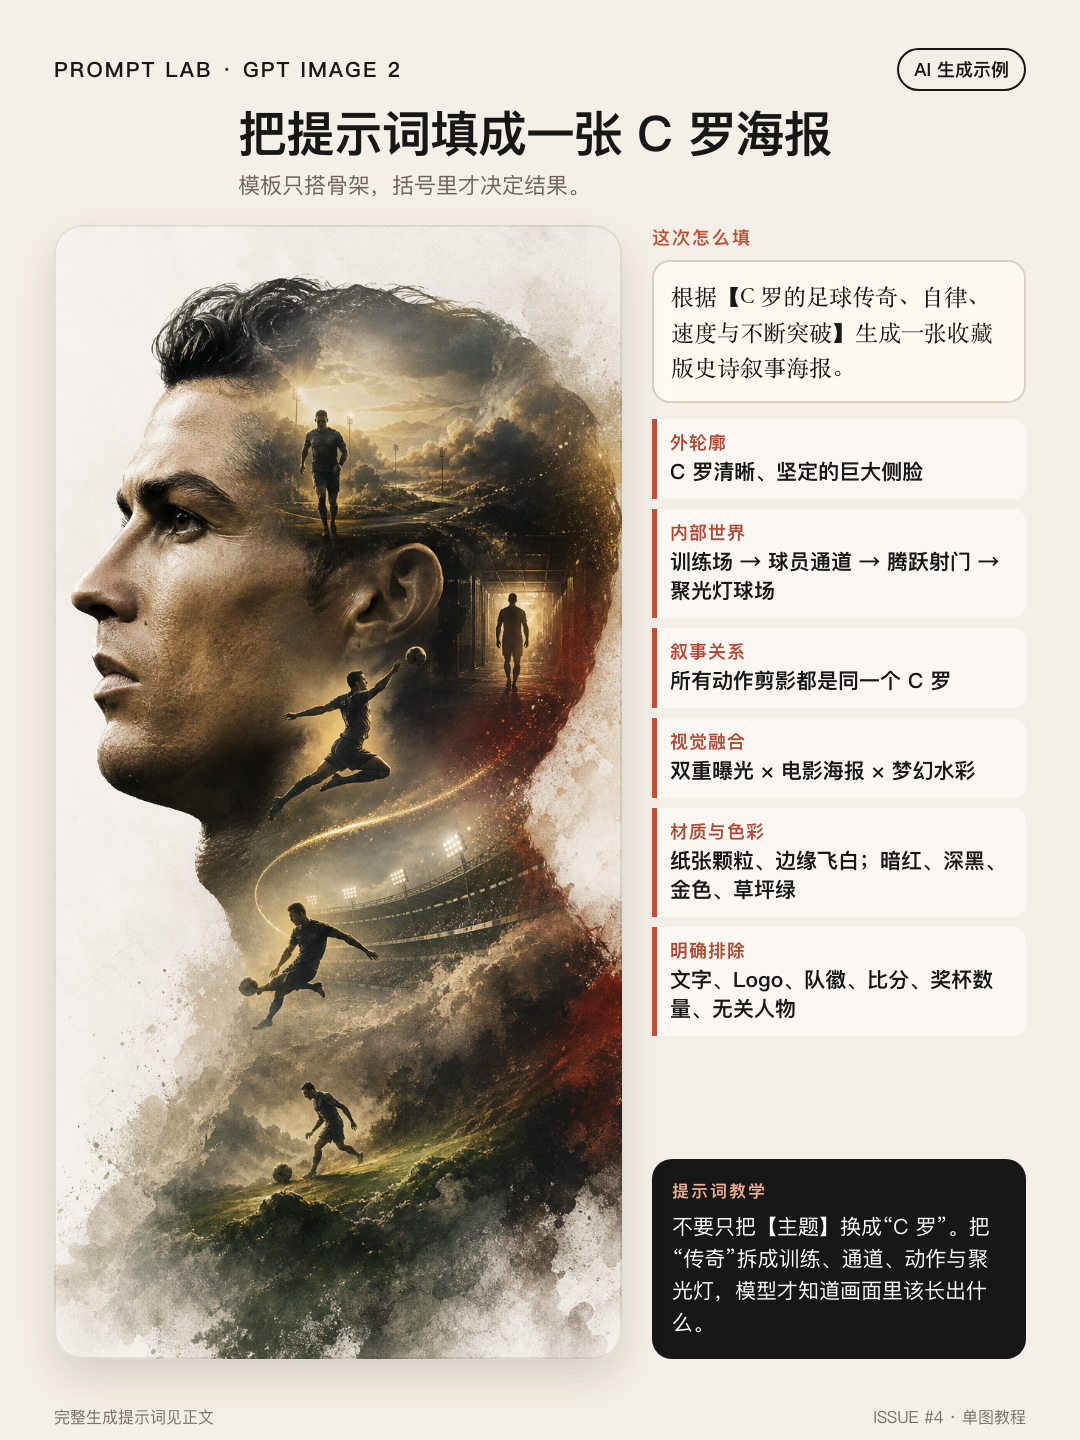
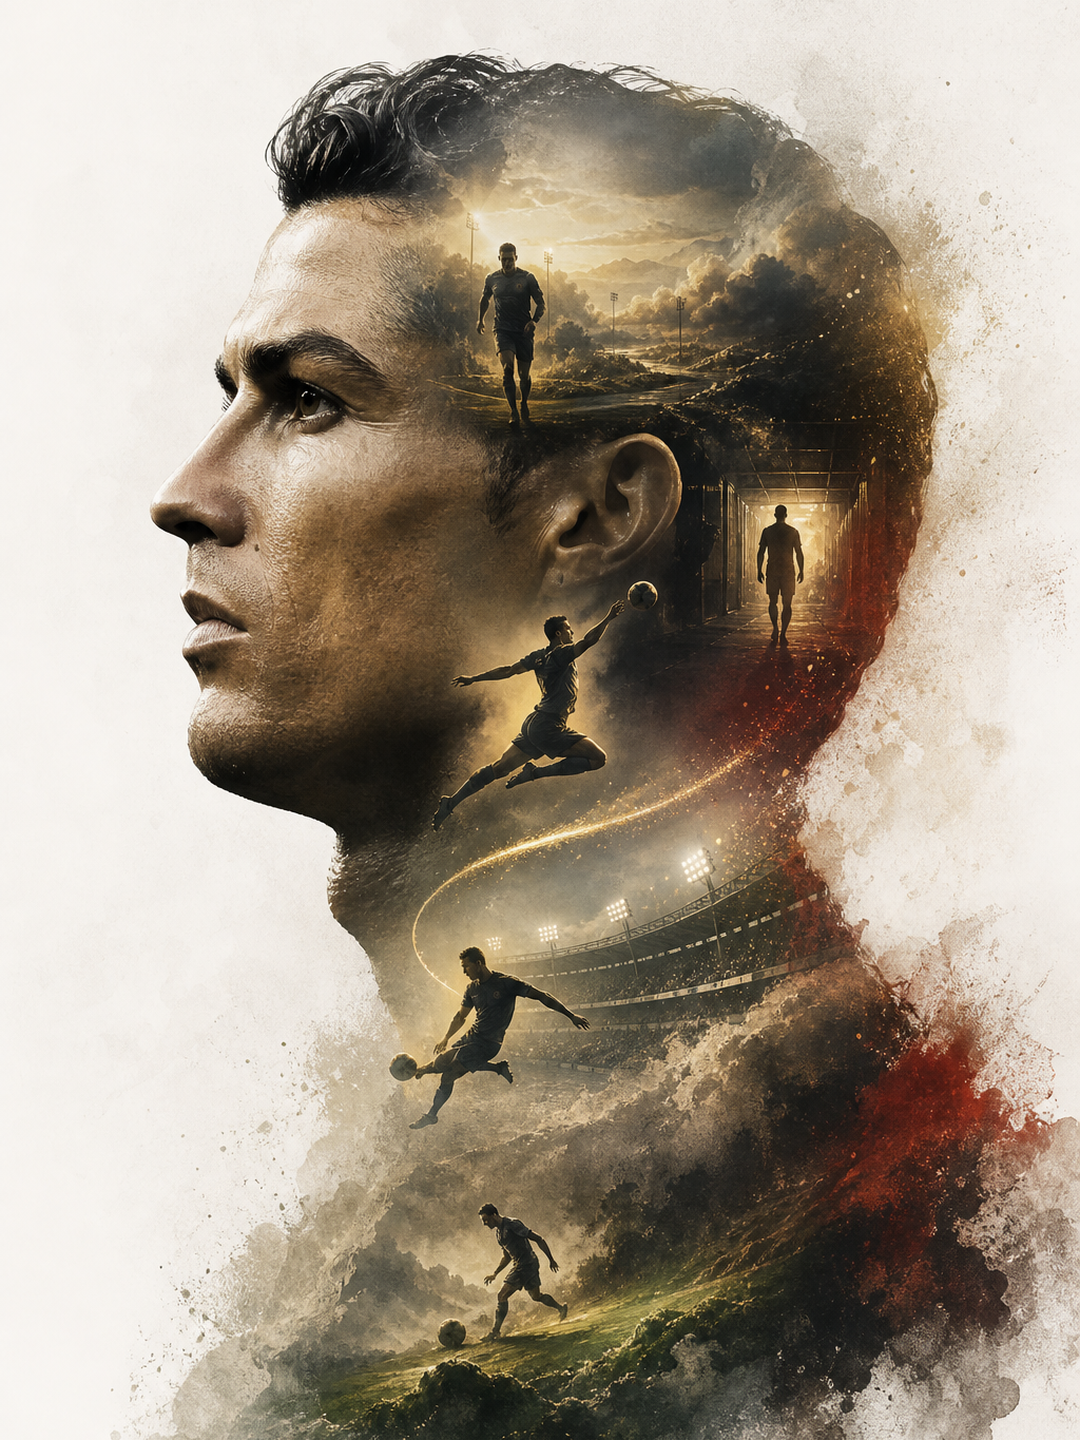
fix: 分离帖子图片与提示词文案 (#4)

diff --git a/projects/issue-4-cristiano-image-prompt/copy.md b/projects/issue-4-cristiano-image-prompt/copy.md
@@ -2,25 +2,33 @@
 
 ## Title candidates
 
-1. 把提示词填成一张C罗海报
-2. 一条模板生成C罗史诗海报
+1. 一条提示词生成C罗史诗海报
+2. C罗剪影海报提示词拆解
 3. 别只把主题换成C罗
 
 ## Selected title
 
-把提示词填成一张 C 罗海报
+一条提示词生成 C 罗史诗海报
 
 ## Body
 
-这次不是只把【主题】换成“C 罗”。
+先看成品。这张 C 罗剪影海报由 `gpt-image-2` 生成。
 
-我把“传奇”继续拆成训练场、球员通道、动作轨迹和聚光灯，再告诉模型：这些动作剪影都属于同一个人。这样生成出来的画面才会真的围绕 C 罗展开，而不是套一张看起来很宏大的背景。
-
-真正有用的不是多写几个“史诗、震撼、高级”，而是把抽象感觉翻译成模型看得见的场景、关系和材质。
+我没有只把模板里的【主题】换成“C 罗”，而是继续补上训练场、球员通道、动作轨迹和聚光灯。这样模型拿到的不是几个听起来很厉害的形容词，而是一组真正能画出来的场景。
 
 ### 完整生成提示词
 
 > C罗主题收藏版史诗叙事海报。巨大的C罗写实侧脸剪影作为外轮廓，轮廓内部自然生长出清晨训练场、球员通道、足球轨迹、腾跃射门、弧形看台、聚光灯、风雨薄雾与金色光尘，所有动作剪影都是同一个C罗。高级剪影轮廓填充式叙事合成，双重曝光联想，电影海报与梦幻水彩插画融合；柔和空气透视、纸张颗粒、边缘飞白与刷痕，暗红、深黑、金色、草坪深绿，安静、宏大、诗意、传说感，大面积留白，克制高级，一眼识别足球与C罗主题。竖版，主体中部偏左。不要文字、数字、Logo、水印、品牌、队徽、比分、奖杯数量或无关人物。
+
+### 提示词怎么写
+
+1. **主题别只填名字**：与其只写“C 罗”，不如写清你想表达的是自律、速度、成长还是荣耀。
+2. **把抽象词换成场景**：“传奇”本身画不出来，训练场、通道、腾跃射门和球场聚光灯可以。
+3. **说明画面关系**：我特别写了“所有动作剪影都是同一个 C 罗”，避免模型把叙事场景理解成一群球员。
+4. **风格和材质分开写**：电影海报决定整体气质，水彩、纸张颗粒和边缘飞白决定画面触感。
+5. **最后补排除项**：文字、Logo、队徽、比分和奖杯数量都容易制造错误信息，提前排除更稳妥。
+
+真正值得复用的不是“C 罗”这两个字，而是这套顺序：**主题 → 外轮廓 → 内部世界 → 叙事关系 → 风格材质 → 排除项**。
 
 ## Tags
 
@@ -29,14 +37,3 @@
 ## CTA
 
 你想把这个模板换成哪个人物或主题？
-
-## Card teaching copy
-
-- 主题: C 罗的足球传奇、自律、速度与不断突破
-- 外轮廓: C 罗清晰、坚定的巨大侧脸
-- 内部世界: 训练场 → 球员通道 → 腾跃射门 → 聚光灯球场
-- 叙事关系: 所有动作剪影都是同一个 C 罗
-- 视觉融合: 双重曝光 × 电影海报 × 梦幻水彩
-- 材质与色彩: 纸张颗粒、边缘飞白；暗红、深黑、金色、草坪绿
-- 明确排除: 文字、Logo、队徽、比分、奖杯数量、无关人物
-- 教学结论: 不要只替换【主题】。把抽象概念拆成能被看见的场景，模板才会真正强绑定主题。

diff --git a/projects/issue-4-cristiano-image-prompt/cards/plan.md b/projects/issue-4-cristiano-image-prompt/cards/plan.md
@@ -2,32 +2,25 @@
 
 | Page | Role | Core message | Evidence/asset | Layout |
 | --- | --- | --- | --- | --- |
-| 01 | 单图教程 | 一张 C 罗成品图对应一套可理解、可替换的提示词结构 | 用户选定的 `gpt-image-2` 候选图；`copy.md` 最终提示词 | 1080 × 1440；顶部短标题；左侧一张 9:16 成品图；右侧完整核心提示词与 5 个结构标签；底部 AI 生成标识 |
+| 01 | AI 生图示例 | 直接展示 C 罗史诗叙事海报的生成结果 | 用户锁定模板后由 `gpt-image-2` 生成的最终原图 | 1080 × 1440；整页只放 AI 成品图；不叠加标题、提示词、教程或装饰排版 |
 
 ## Candidate gate
 
 1. 使用相同模型和尺寸分别生成 A、B、C 三个方向。
 2. 记录每次生成的提示词、模型、输出、优点、缺点与失败原因。
-3. 实际视觉检查后向用户展示 3 个候选。
-4. 用户确认一个方向后，再锁定最终标题、右栏文案与成图。
+3. 实际视觉检查后向用户展示候选。
+4. 用户提供剪影叙事模板并锁定 A 类方向后，重新生成最终图。
 
 ## Candidate previews
 
-- A: `work/candidates/cards/candidate-a.png`，1080 × 1440，已视觉检查。
-- B: `work/candidates/cards/candidate-b.png`，1080 × 1440，已视觉检查。
-- C: `work/candidates/cards/candidate-c.png`，1080 × 1440，已视觉检查；原图含品牌勾形标识，未通过边界检查。
+- A: `work/candidates/cards/candidate-a.png`，早期“图片 + 教学栏”预览，仅保留为试验记录。
+- B: `work/candidates/cards/candidate-b.png`，早期预览，仅保留为试验记录。
+- C: `work/candidates/cards/candidate-c.png`，早期预览含品牌勾形标识，未进入最终方向。
 
-## Readability constraints
-
-- 最终只出现一张 AI 成品图，不做多图拼贴。
-- 提示词正文不使用小于 28 px 的字号；结构标签不使用小于 24 px 的字号。
-- 右栏只保留能解释结果的核心指令，不以极小字号塞入全部生成参数。
-- 图片主体、脸部与关键动作不得被左栏裁切。
-
-## Final card
+## Final image
 
 - Asset: `cards/output/xhs-01-cover.png`
 - Selected direction: 用户提供模板填入 C 罗主题后的叙事剪影。
-- Title: 把提示词填成一张 C 罗海报
-- Layout: 左侧只放一张 `gpt-image-2` 成品图；右侧按主题、外轮廓、内部世界、叙事关系、视觉融合、材质色彩和排除项讲解。
-- Full prompt: 保存在 `copy.md` 正文；卡片保留可读的模板填空内容，不用极小字号塞入长提示词。
+- Content: 只有 `gpt-image-2` 生成的 C 罗侧脸剪影及内部足球叙事世界。
+- Adaptation: 从模型返回的 1024 × 1536 原图裁去少量顶部和底部留白，再缩放为 1080 × 1440；人物头部、面部与内部关键场景均完整保留。
+- Text separation: 完整提示词与教学只进入 `copy.md`，不进入图片像素。

diff --git a/projects/issue-4-cristiano-image-prompt/brief.md b/projects/issue-4-cristiano-image-prompt/brief.md
@@ -2,14 +2,15 @@
 
 - Issue: https://github.com/xjy264/end-to-end-content-system/issues/4
 - 目标受众: 对 AI 生图感兴趣、已会调用模型但仍主要依靠堆关键词的中文用户。
-- 内容目标: 用一张 C 罗主题成品图，把最终提示词与写法教学放在同一张小红书卡片里。
+- 内容目标: 生产一篇小红书图文帖子；图片只展示 C 罗主题 AI 成品，帖子文字单独提供完整提示词与写法教学。
 - 核心观点: 高质量提示词的价值不在长度，而在主体、构图、场景、风格、光线与约束各自承担明确作用。
 - 语气: 直接、实用、有判断，不使用“万能公式”“一键封神”等夸张承诺。
-- 视觉方向: 电影级运动海报；速度、力量、聚光灯与赛场叙事；单张 1080 × 1440 卡片。
+- 视觉方向: 电影级运动海报；速度、力量、聚光灯与赛场叙事；单张 1080 × 1440 图片，不叠加教学文字。
 - 表达边界: 不声称 C 罗参与或认可，不虚构体育事实，不呈现官方合作，不复制参考帖图片、排版或大段提示词。
 - 已确认假设:
-  - 最终帖子只有一张卡片。
-  - 卡片只放一张 `gpt-image-2` 成品图，旁边是提示词与教学文字。
+  - 最终是一篇“图片 + 帖子文字”的图文帖子。
+  - 图片部分只交付一张 `gpt-image-2` 成品图，不把提示词或教学排进图片。
+  - 文字部分在 `copy.md` 中提供完整生成提示词、提示词教学、标题、正文和标签。
   - 先生成 3 个内部候选，用户确认后只保留一个方向进入最终交付。
   - 使用当前项目流水线；能力缺口先记录，内容交付后另建改进 Issue。
   - 不执行平台发布。

diff --git a/projects/issue-4-cristiano-image-prompt/research.md b/projects/issue-4-cristiano-image-prompt/research.md
@@ -77,9 +77,9 @@
 ## Pipeline findings
 
 1. 模型可见不等于文本阶段稳定可调用，`gpt-5.6-sol` 出现 403/429。
-2. `gpt-image-2` 在相同尺寸请求下返回了两种实际尺寸，最终卡片必须做确定性裁切与合成。
+2. `gpt-image-2` 在相同尺寸请求下返回了两种实际尺寸，最终图片必须做确定性尺寸适配。
 3. 负面提示中的“不要 Logo”没有可靠阻止品牌形状生成，视觉 QA 不能只检查接口状态。
-4. 单图旁栏可以同时容纳约 120～150 字核心提示词、五个结构标签和一段教学，但必须使用确定性排版，不宜让图片模型直接生成中文。
+4. 早期“图片旁栏排提示词”的试验偏离了用户真正需要的图文帖子结构；图片和帖子文字应分开交付。
 
 ## Final direction
 
@@ -89,4 +89,5 @@
 - 将模板压缩为主体、内部世界、融合风格、材质色彩和排除项五个可执行部分后，`gpt-image-2` medium 成功返回成图。
 - 最终原图请求尺寸为 1024 × 1536；实际尺寸在 QA 中复核。
 - 视觉检查结果: C 罗侧脸辨识度清楚；训练、通道、腾跃、球场和光线组成连续叙事；未见文字、数字、Logo、水印、队徽或无关人物。
-- 最终卡片使用确定性 HTML/CSS 合成中文，不让图片模型绘制教学文字。
+- 最终图片直接使用 AI 成品，不叠加中文、标题或教学栏；完整提示词和教学进入 `copy.md`。
+- 模型返回 1024 × 1536，最终交付通过确定性裁切和缩放适配为 1080 × 1440，未改变画面内容。

diff --git a/projects/issue-4-cristiano-image-prompt/qa.md b/projects/issue-4-cristiano-image-prompt/qa.md
@@ -1,6 +1,6 @@
 # QA
 
-> 候选阶段，最终 QA 待用户选定视觉方向并完成单图卡片后执行。
+> 用户已锁定剪影叙事方向；最终交付按“单张 AI 图片 + 独立帖子文字”检查。
 
 ## Candidate QA
 
@@ -16,12 +16,12 @@
 
 - [x] 用户提供模板已作为最终方向依据
 - [x] 最终原图由项目 NewAPI 的 `gpt-image-2` 生成
-- [x] 最终卡片只出现一张 AI 成品图
+- [x] 最终图片只出现一张 AI 成品图
 - [x] C 罗侧脸清楚，训练场、通道、动作与球场叙事可辨
 - [x] 未见文字、数字、Logo、水印、队徽、比分或无关人物
-- [x] 中文文字由确定性排版生成，无乱码和模型伪文字
-- [x] 标题、提示词结构、教学结论和图片承诺一致
-- [x] 最终卡片已按原始分辨率实际视觉检查
+- [x] 图片中没有叠加标题、提示词、教学文字或装饰卡片
+- [x] 图片与 `copy.md` 中记录的成功生成提示词一致
+- [x] 最终图片已按原始分辨率实际视觉检查
 
 ## Sources
 
@@ -34,12 +34,13 @@
 - [x] 标题、图片和正文承诺一致
 - [x] 已完成中文去 AI 味检查
 - [x] 无编造数据、经历或引用
+- [x] `copy.md` 单独包含完整生成提示词和五条教学
 
 ## Cards
 
 - [x] 输出为 1080 × 1440 PNG
-- [x] 最终规划只有一个核心意思
-- [x] 移动端可读，无溢出和错误裁切
+- [x] 最终图片未叠加文字或多图拼贴
+- [x] 人物头部、面部和内部关键场景无错误裁切
 - [x] 已逐张视觉检查
 
 ## Package

diff --git a/projects/issue-4-cristiano-image-prompt/manifest.md b/projects/issue-4-cristiano-image-prompt/manifest.md
@@ -16,8 +16,8 @@
   - 3 个 `gpt-image-2` 候选原图（本地 `work/candidates/`）
   - 3 个 1080 × 1440 候选卡片预览（本地 `work/candidates/cards/`）
   - sources/user-prompt.md
-  - copy.md（最终文案与完整生成提示词）
-  - cards/plan.md（最终单卡规划）
+  - copy.md（最终帖子文字、完整生成提示词与教学）
+  - cards/plan.md（最终单图规划）
   - cards/output/xhs-01-cover.png
   - qa.md（最终视觉检查）
 - Failures:
@@ -26,5 +26,5 @@
   - 请求尺寸均为 1024 × 1536；候选 B、C 实际返回 864 × 1821，说明当前接口没有稳定遵循尺寸参数。
   - 候选 C 出现可见品牌勾形标识，违反无 Logo 约束，当前只能作为失败样例，选中该方向后必须重新生成或编辑。
   - 用户提供模板的完整填充版与多个质量/尺寸组合连续 6 次返回网关 524；保持 `gpt-image-2` 不变，压缩为同结构的可执行提示词后成功。
-- Next action: 等待 PR Review；内容平台发布保持在当前范围之外。
+- Next action: 等待更新后的 PR Review；内容平台发布保持在当前范围之外。
 - Last verified at: 2026-07-31 Asia/Taipei
